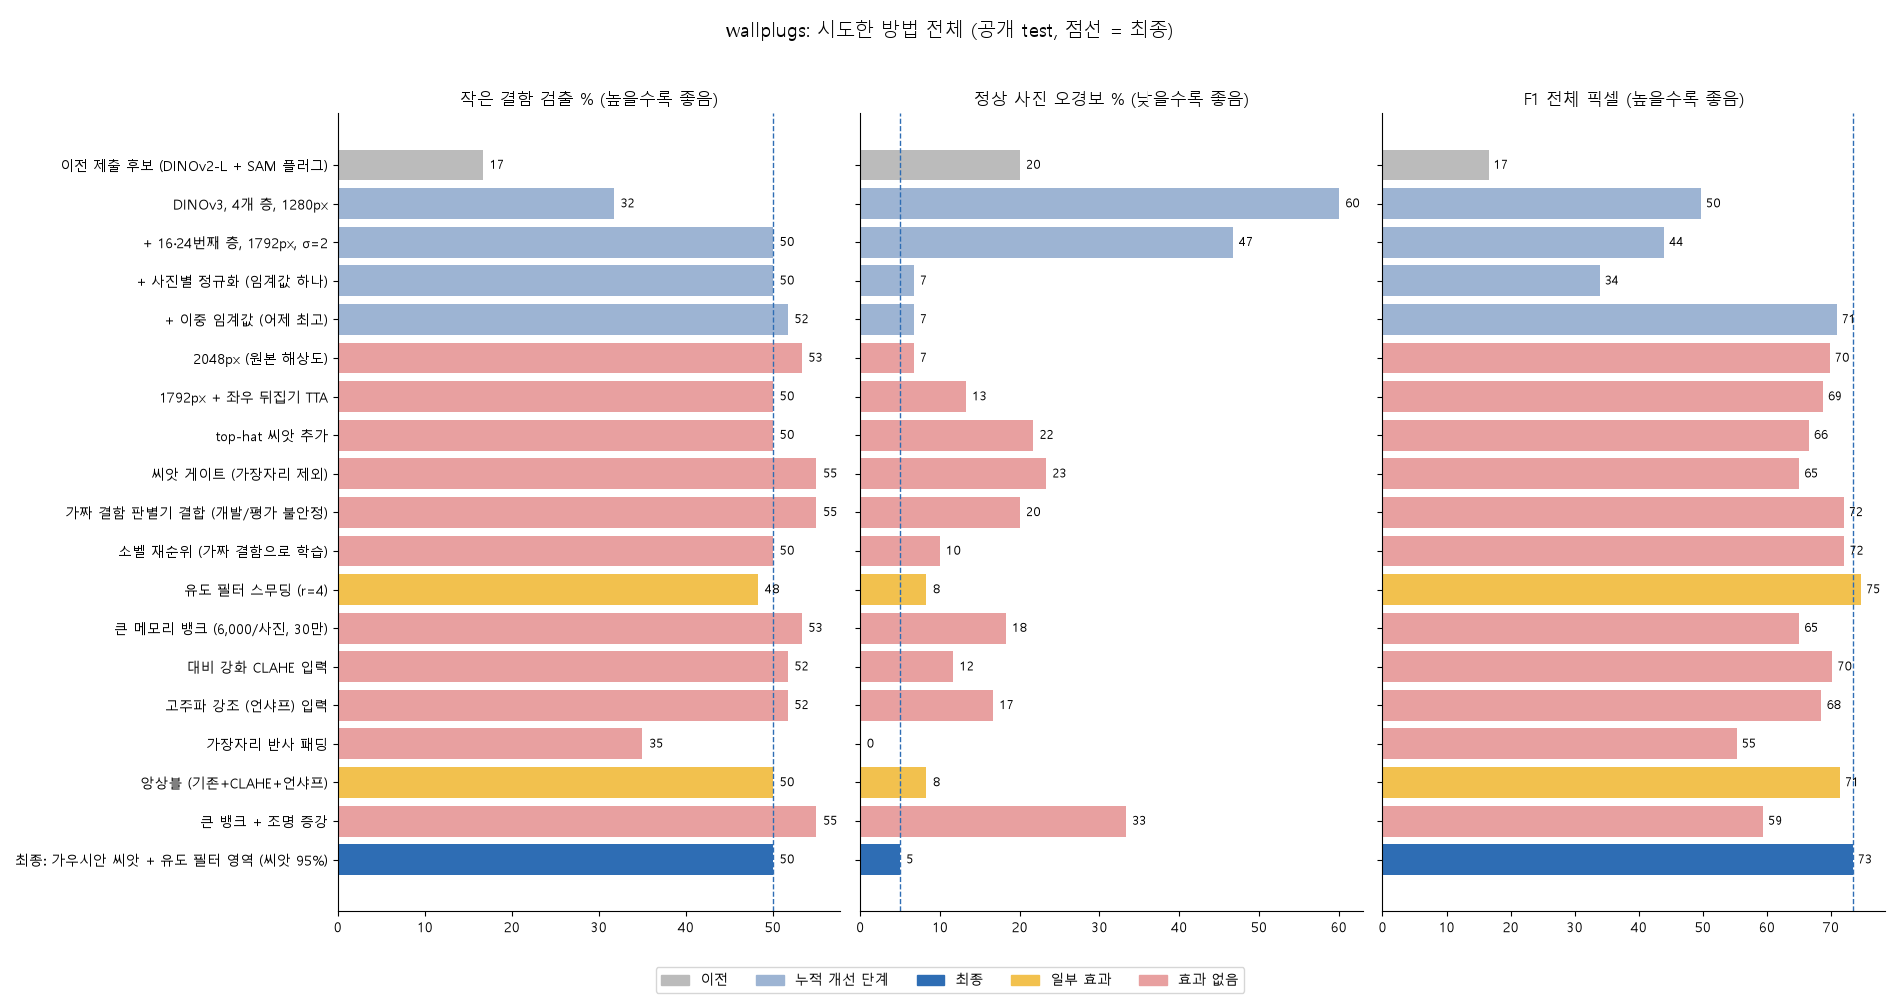
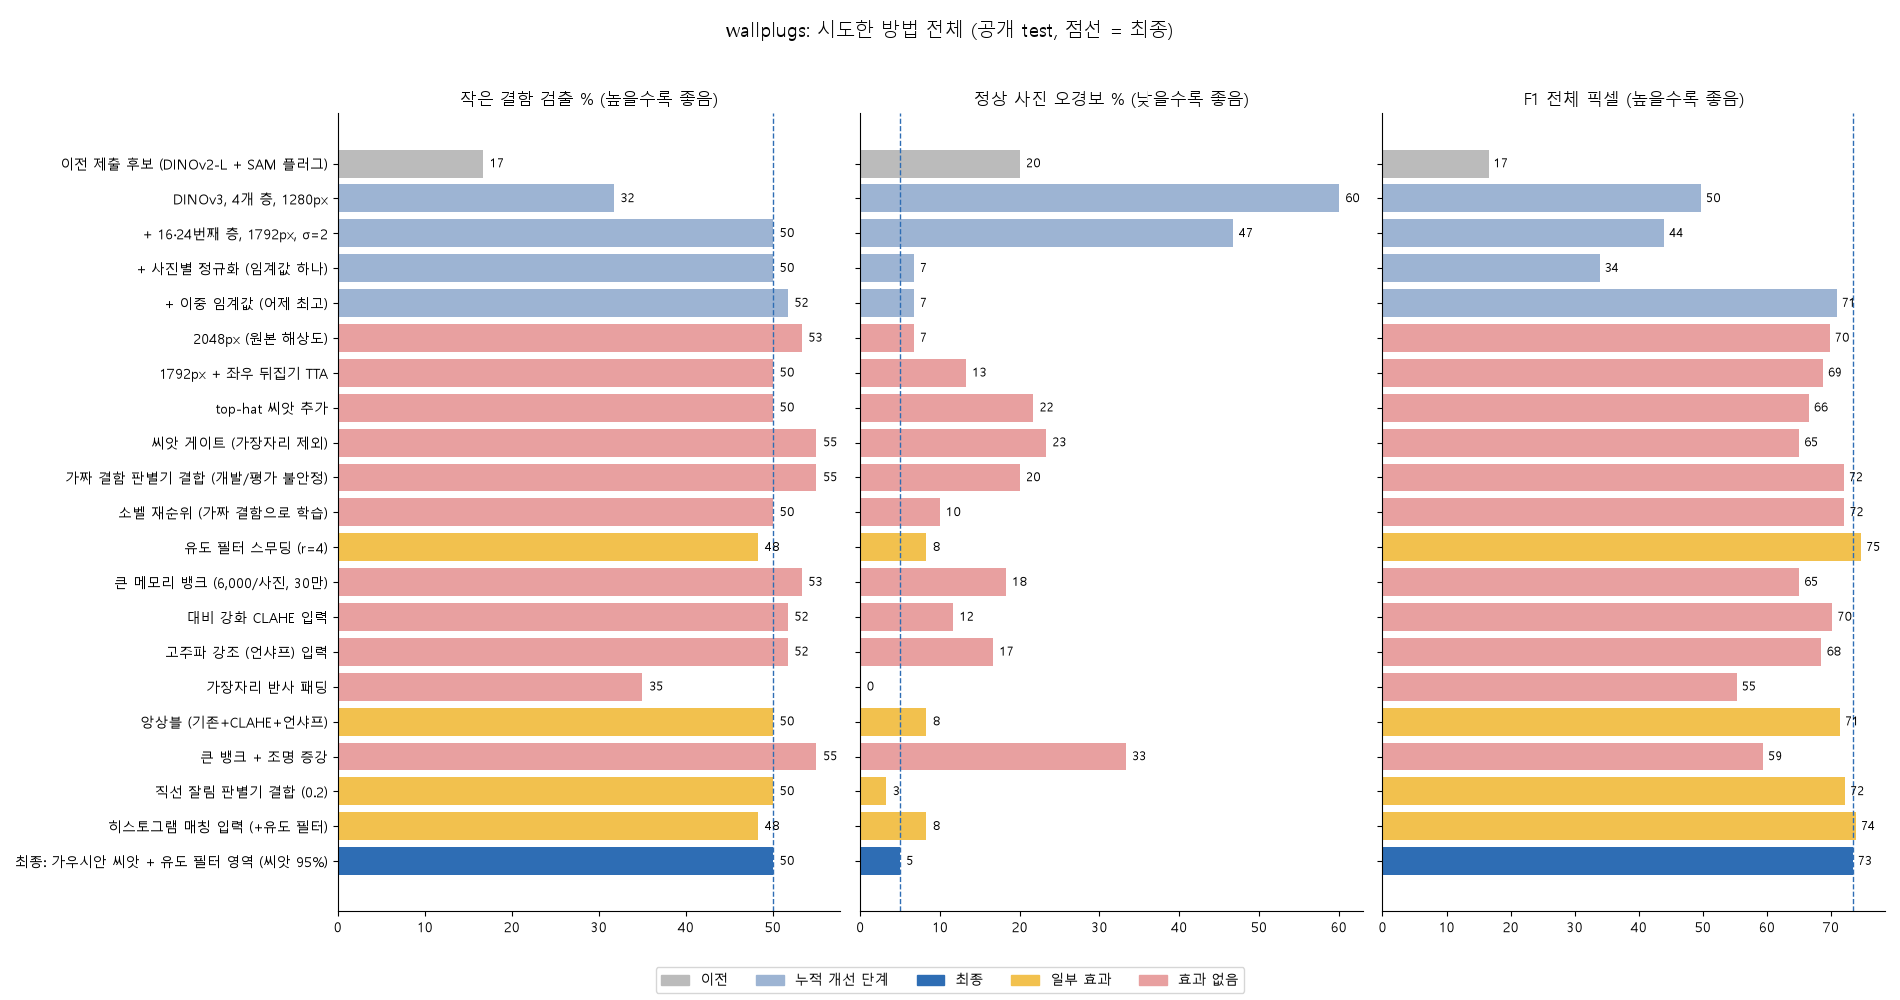
wallplugs: histogram matching lowers shift noise but also defect scores; ties the final config

Changed region(s): [[0.0, 0.155, 0.9937, 0.868], [0.7142, 0.527, 0.9937, 0.868]]

diff --git a/scripts/wp_summary_fig.py b/scripts/wp_summary_fig.py
@@ -30,6 +30,8 @@ rows = [
     ("가장자리 반사 패딩", 35.0, 43.3, 0.0, 55.3, "no"),
     ("앙상블 (기존+CLAHE+언샤프)", 50.0, 76.7, 8.3, 71.4, "partial"),
     ("큰 뱅크 + 조명 증강", 55.0, 80.0, 33.3, 59.4, "no"),
+    ("직선 잘림 판별기 결합 (0.2)", 50.0, 76.7, 3.3, 72.2, "partial"),
+    ("히스토그램 매칭 입력 (+유도 필터)", 48.3, 76.7, 8.3, 73.9, "partial"),
     ("최종: 가우시안 씨앗 + 유도 필터 영역 (씨앗 95%)", 50.0, 76.7, 5.0, 73.4, "best"),
 ]
 col = {"old": "#BBBBBB", "step": "#9DB4D3", "best": "#2E6DB4", "no": "#E8A0A0", "partial": "#F2C14E"}
